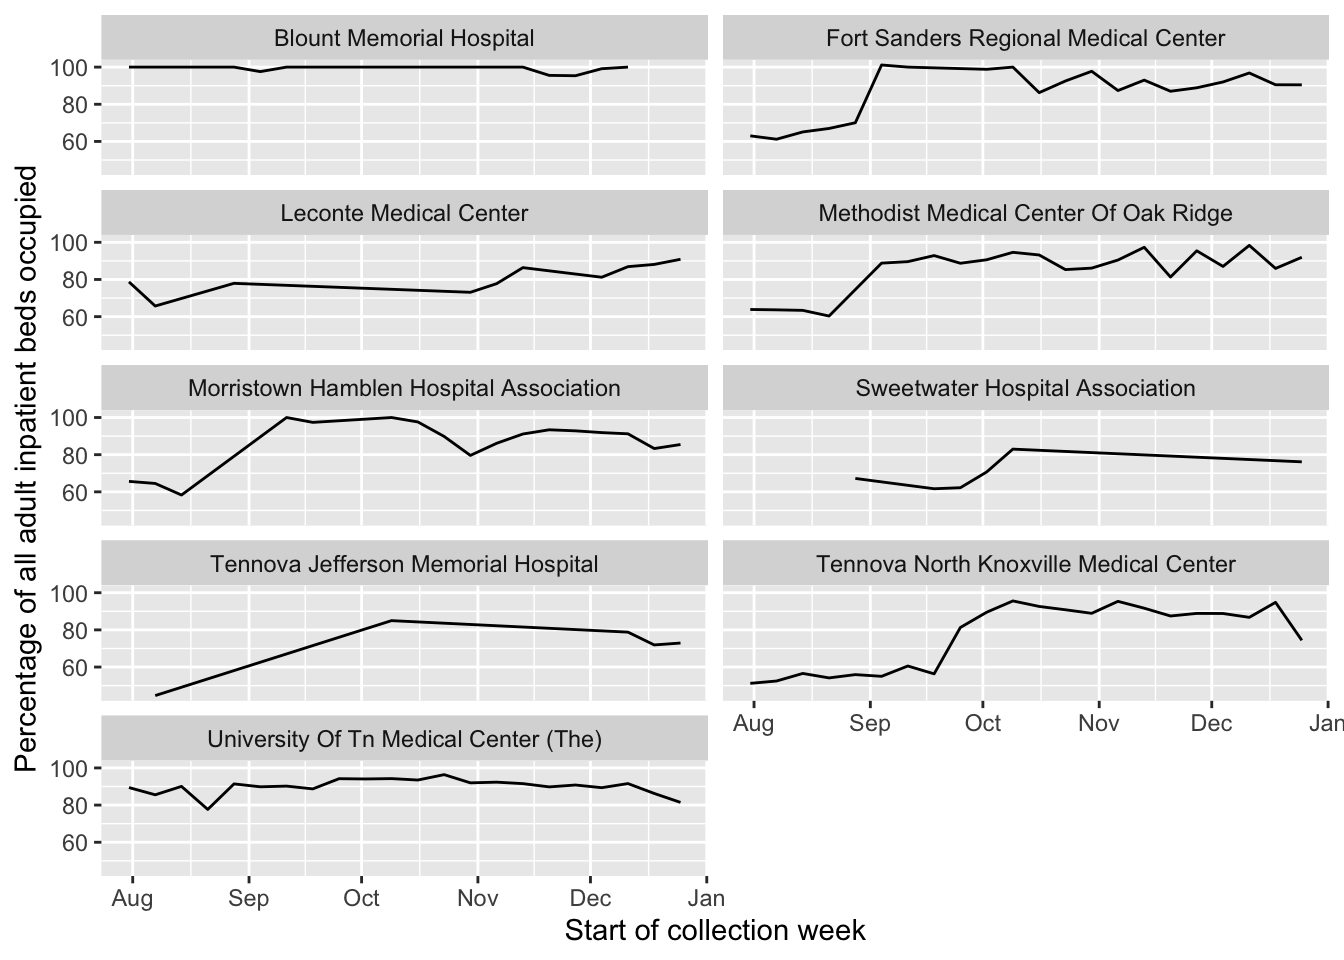
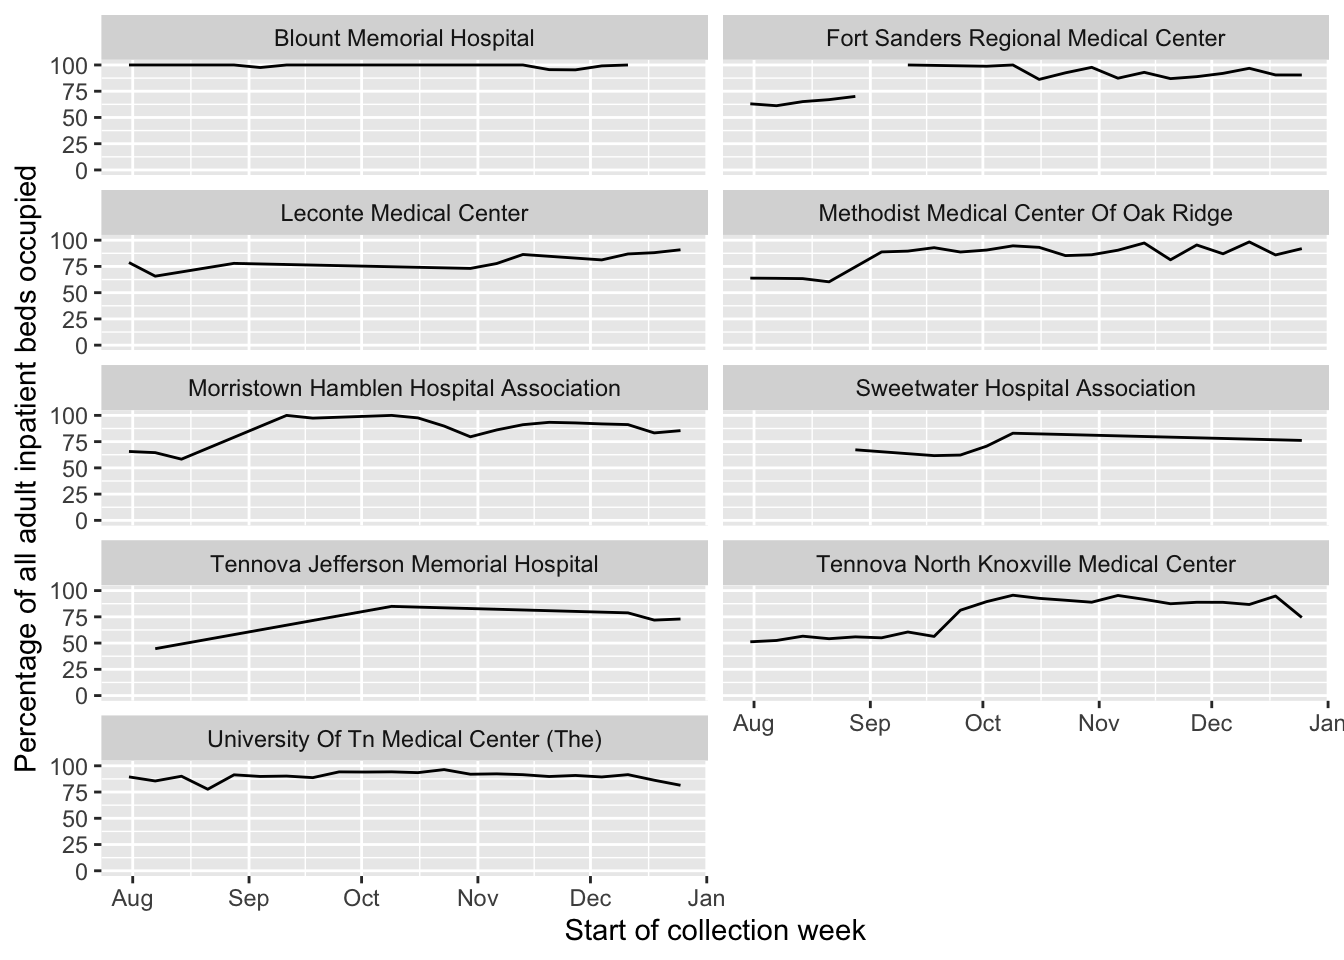
updating site

diff --git a/docs/covid.html b/docs/covid.html
@@ -438,7 +438,7 @@ $(document).ready(function () {
 <li>Info about cases at <a href="#ut">U. of Tennessee, Knoxville</a> (using public information only)</li>
 <li><a href="#webcams">Webcams</a> showing activity at local sites, though not quite at the resolution to point to mask usage or not</li>
 </ul>
-<p>The following plots are created in R using data from <a href="https://covid19datahub.io" class="uri">https://covid19datahub.io</a> (Guidotti, E., Ardia, D., (2020), “COVID-19 Data Hub”, Working paper, doi: 10.13140/RG.2.2.11649.81763), as well as information from Google and the <a href="https://www.tn.gov/health/cedep/ncov/data/downloadable-datasets.html">state of Tennessee dataset page</a> and plotting and analysis using the <code>forecast</code>, <code>ggplot2</code>, <code>reshape2</code>, and <code>dplyr</code> packages. Plots created on 2021-01-04 16:33:56. I use a seven day rolling average for most plots using the <code>geom_ma</code> function of <code>tidyquant</code>.</p>
+<p>The following plots are created in R using data from <a href="https://covid19datahub.io" class="uri">https://covid19datahub.io</a> (Guidotti, E., Ardia, D., (2020), “COVID-19 Data Hub”, Working paper, doi: 10.13140/RG.2.2.11649.81763), as well as information from Google and the <a href="https://www.tn.gov/health/cedep/ncov/data/downloadable-datasets.html">state of Tennessee dataset page</a> and plotting and analysis using the <code>forecast</code>, <code>ggplot2</code>, <code>reshape2</code>, and <code>dplyr</code> packages. Plots created on 2021-01-04 17:21:31. I use a seven day rolling average for most plots using the <code>geom_ma</code> function of <code>tidyquant</code>.</p>
 <h2 id="cases">
 Cases
 </h2>
@@ -486,7 +486,7 @@ Hospitalization
 <p>US Health and Human Services is now releasing data on hospital occupancy by hospital. For more, see <a href="https://healthdata.gov/dataset/covid-19-reported-patient-impact-and-hospital-capacity-facility">here</a>. I’m showing all the hospitals in east Tennessee that have at least a couple of updates in the HHS database (some tiny hospitals apparently rarely update this info). The first plots stack all the adult beds available in all regional hospitals, grouping by city.</p>
 <p><img src="covid_files/figure-html/hhshospitalization-1.png" width="672" /><img src="covid_files/figure-html/hhshospitalization-2.png" width="672" /></p>
 <p>There is also data on the individual hospitals. I’m showing the percentage of beds filled per hospital (higher is worse): all adult outpatient beds, then just the adult ICU beds.</p>
-<p><img src="covid_files/figure-html/hhspart2-1.png" width="672" /></p>
+<p><img src="covid_files/figure-html/hhspart2-1.png" width="672" /><img src="covid_files/figure-html/hhspart2-2.png" width="672" /></p>
 <p>Finally, we can break out the percentage of patients in the beds (all adult outpatient and adult ICU) who have confirmed or suspected covid. That does not mean that covid is their primary reason (or reason at all) for being in the hospital, but can still suggest something about the pandemic, including something of the population of patients facing east Tennessee healthcare workers.</p>
 <p><img src="covid_files/figure-html/hhspart3-1.png" width="672" /><img src="covid_files/figure-html/hhspart3-2.png" width="672" /></p>
 <hr />
